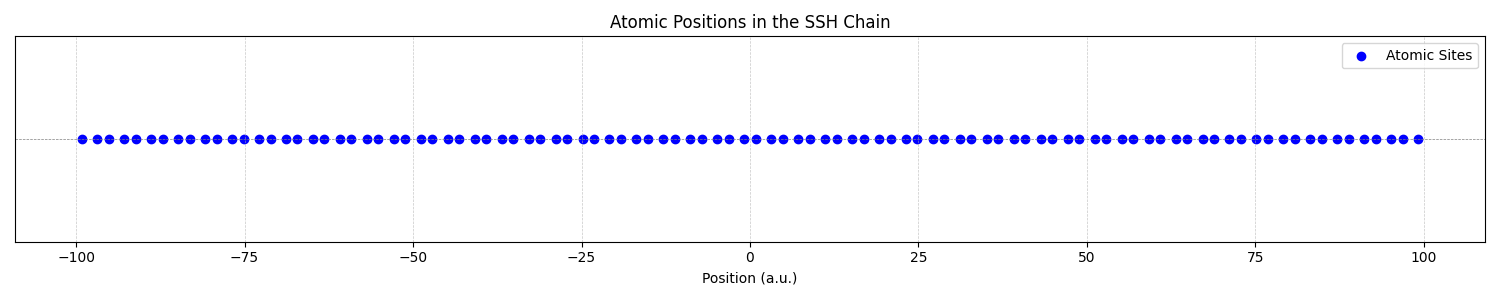
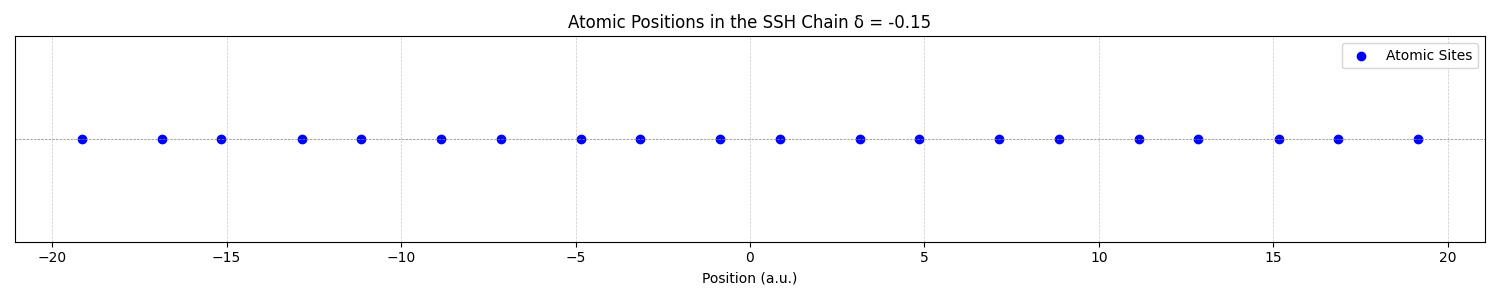
Atomic positions

diff --git a/Atomic Positions/SSH_chain.py b/Atomic Positions/SSH_chain.py
@@ -1,13 +1,18 @@
+'''
+Author: Don Usitha Mihiranga Uduwakaarachchi
+Copyright (c) 2025 Don Usitha Mihiranga Uduwakaarachchi
+'''
+
 import scipy as sp
 import numpy as np  
 import matplotlib.pyplot as plt
 import matplotlib.cm as cm
 
 # Define model parameters
-L = 100           # system size
+L = 20           # system size
 J = 1.0           # uniform hopping contribution
 a = 2.0           # Lattice constant in a.u
-delta = -0.15    # Alternating shift of the atos casuing the dimerization (negative for topological phase)
+delta = 0    # Alternating shift of the atos casuing the dimerization (negative for topological phase)
 
 # Define atomic-site positions
 positions = np.zeros(L)
@@ -19,7 +24,7 @@ plt.figure(figsize=(15, 3))
 plt.scatter(positions, np.zeros(L), color='blue', label='Atomic Sites')
 plt.axhline(0, color='gray', linestyle='--', linewidth=0.5)  # Add reference line
 plt.xlabel("Position (a.u.)")
-plt.title("Atomic Positions in the SSH Chain")
+plt.title(f"Atomic Positions in the SSH Chain δ = {delta}")
 plt.yticks([])  # Remove y-axis ticks
 plt.legend()
 plt.grid(axis='x', linestyle='--', linewidth=0.5, alpha=0.7)
